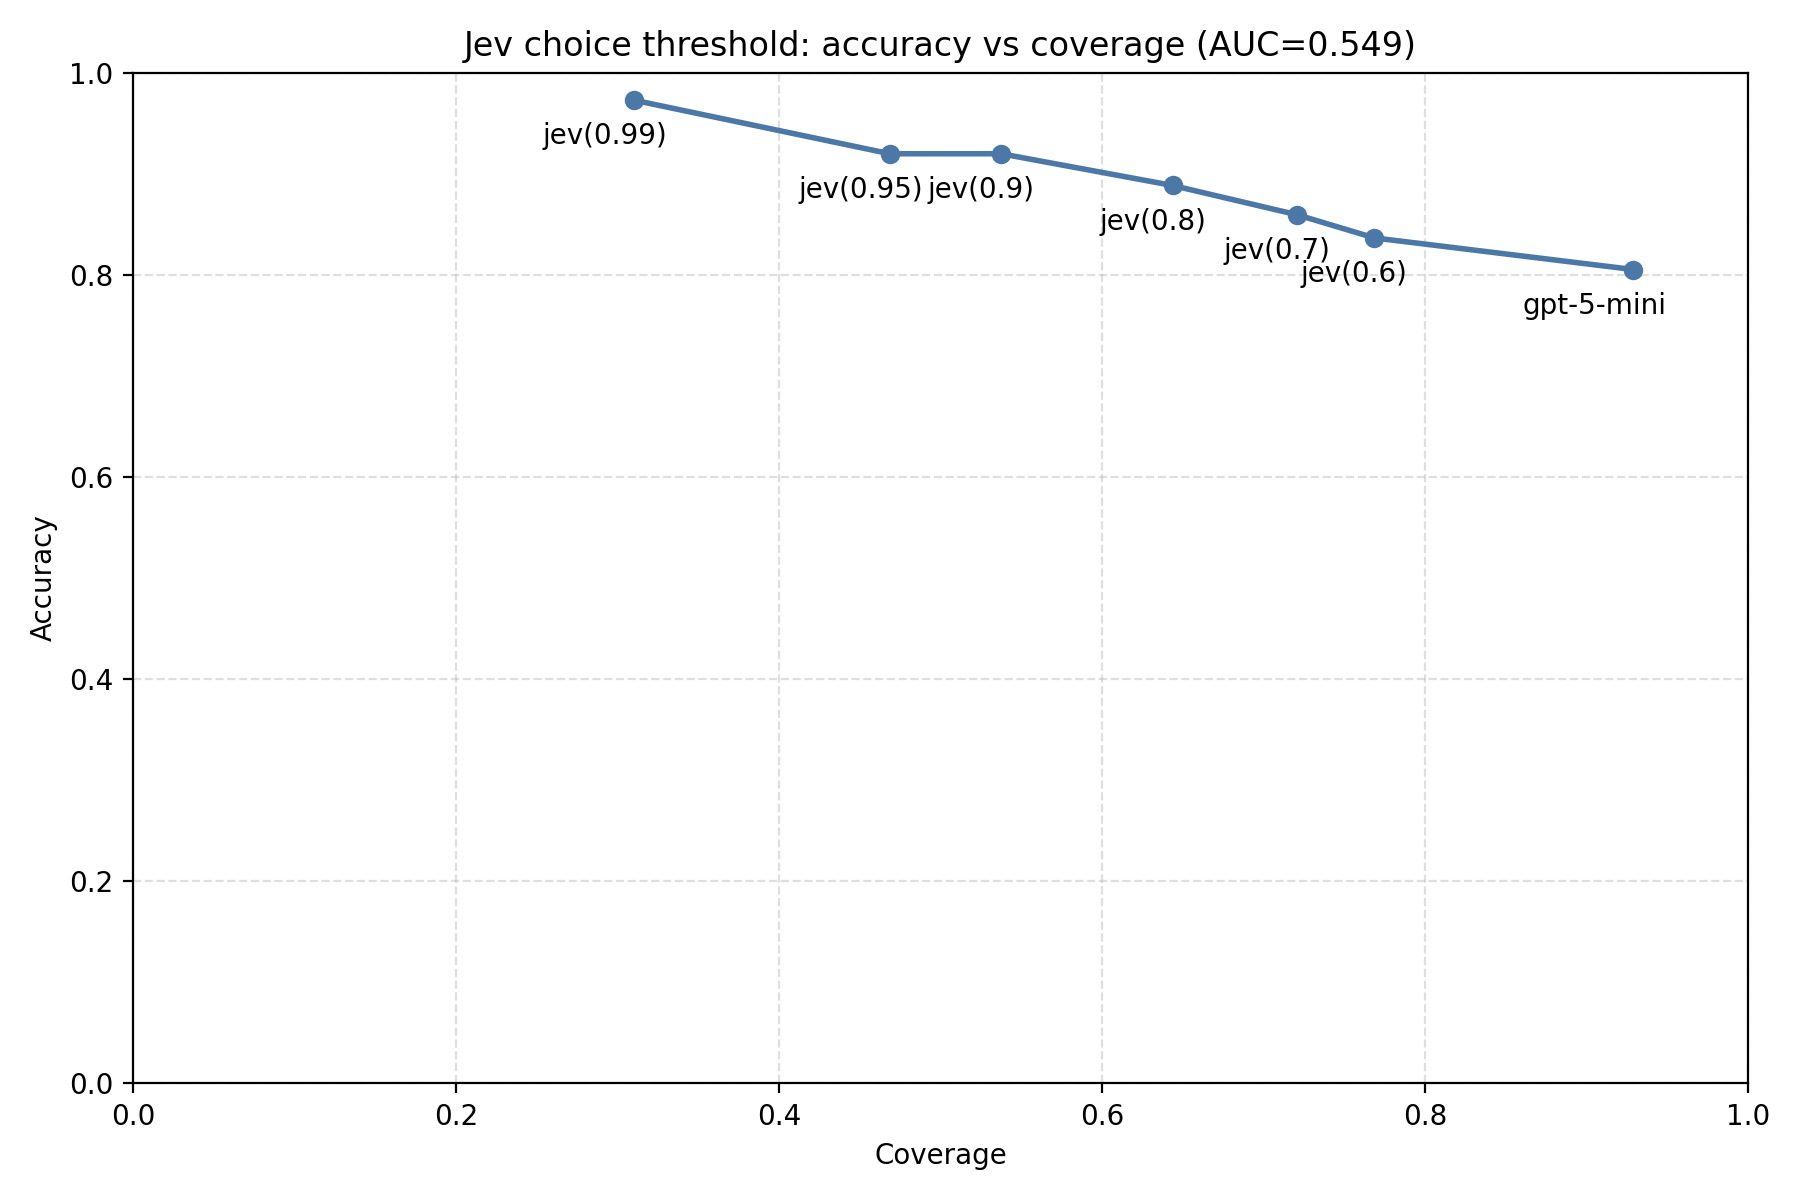
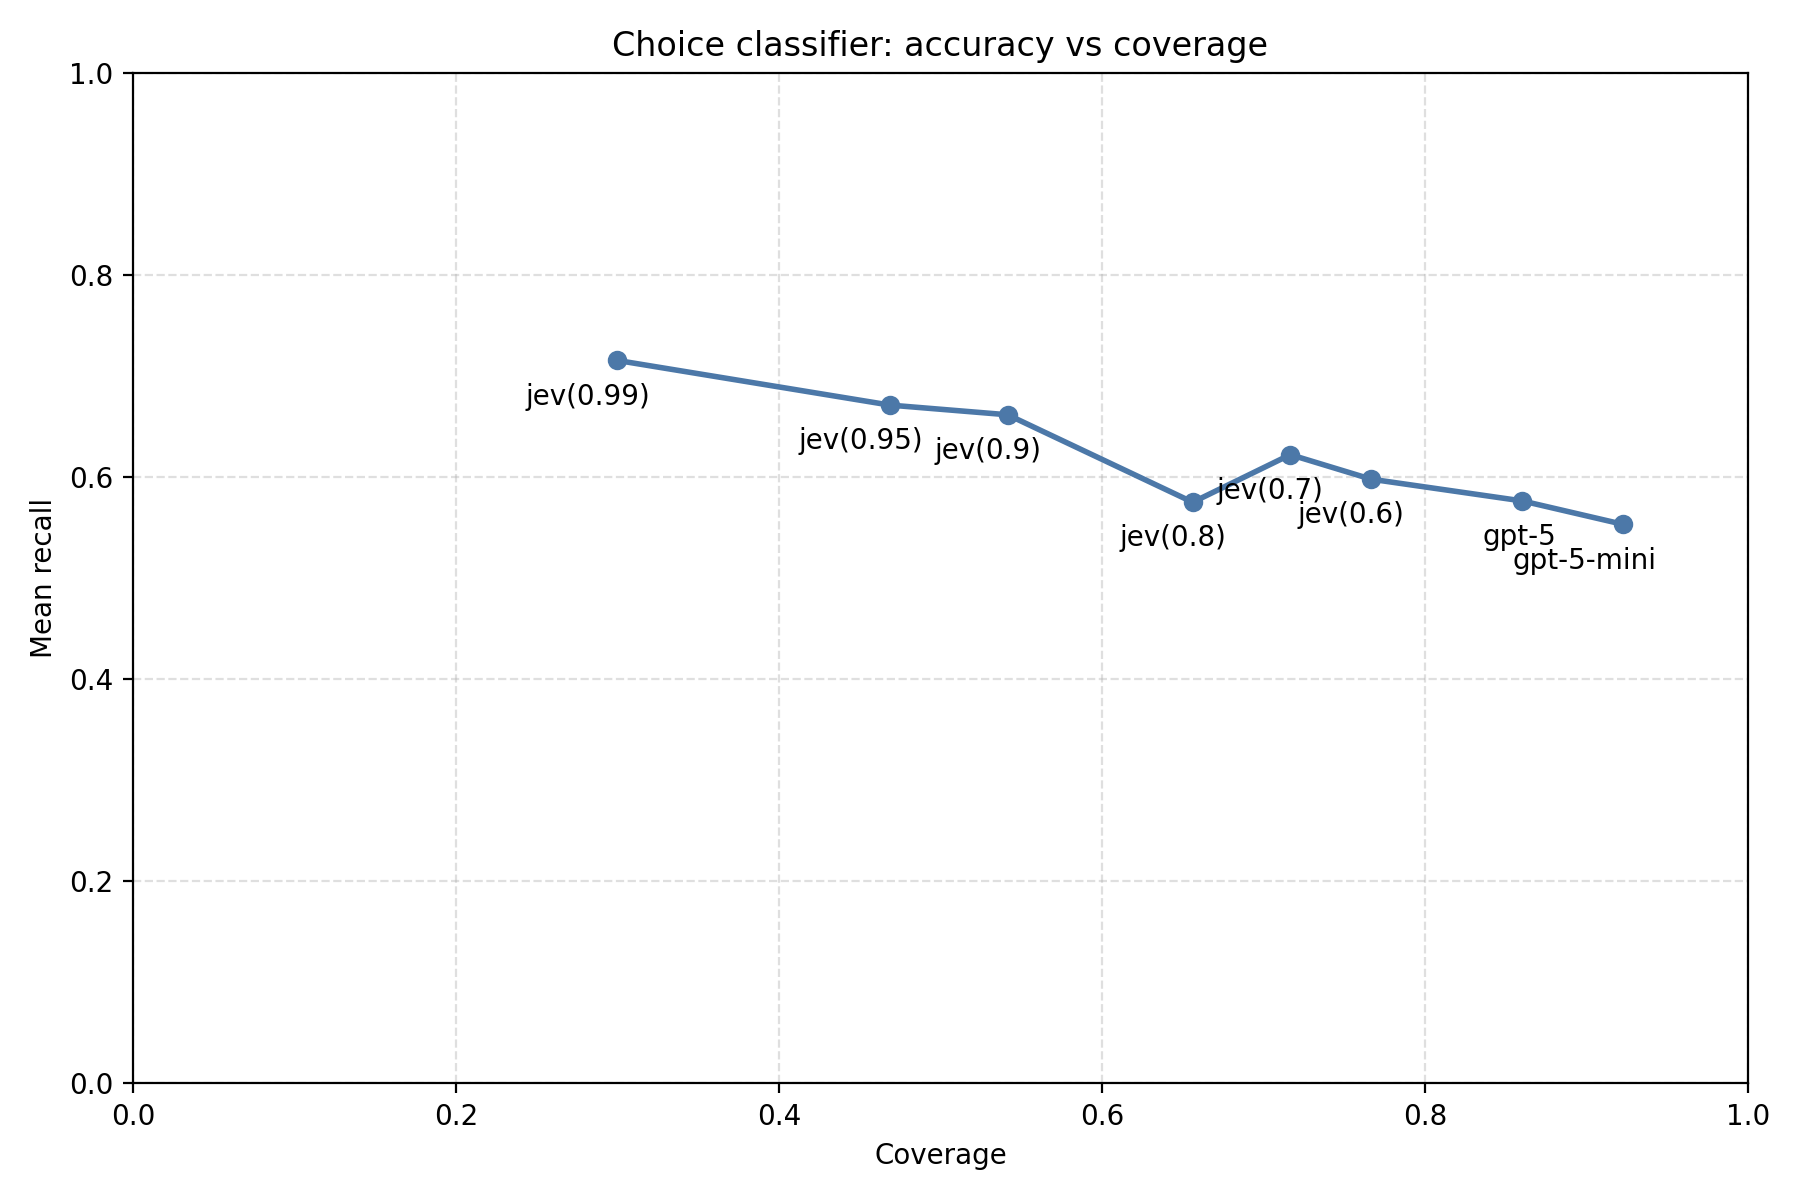
Refresh Jev confidence threshold results

diff --git a/scripts/plot_choice_single_jev_thresholds.py b/scripts/plot_choice_single_jev_thresholds.py
@@ -8,7 +8,7 @@ from pathlib import Path
 
 def main() -> None:
     parser = argparse.ArgumentParser(
-        description="Plot recall against coverage for Jev choice thresholds."
+        description="Plot accuracy against coverage for Jev choice thresholds."
     )
     parser.add_argument("--input", type=Path, required=True)
     parser.add_argument("--output", type=Path, required=True)
@@ -61,7 +61,7 @@ def main() -> None:
             ha="right",
             va="top",
         )
-    ax.set_title(f"Choice classifier: recall vs coverage (AUC={auc:.3f})")
+    ax.set_title("Choice classifier: accuracy vs coverage")
     ax.set_xlabel("Coverage")
     ax.set_ylabel("Mean recall")
     ax.set_xlim(0, 1)

diff --git a/research/query_understanding/query_understanding_jev_thresholds.md b/research/query_understanding/query_understanding_jev_thresholds.md
@@ -10,14 +10,14 @@ The table below is from [`research/results/query_understanding_jev_thresholds.cs
 
 | Variant | Confidence threshold | Mean recall | Coverage |
 | --- | ---: | ---: | ---: |
-| `ecom_choice_single` (GPT-5-mini) | baseline | 0.5561 | 0.9292 |
-| `ecom_choice_single_gpt5` (GPT-5) | gpt-5 | 0.5895 | 0.8729 |
-| `ecom_choice_single_jev_0_6` | 0.6 | 0.6033 | 0.7563 |
-| `ecom_choice_single_jev_0_7` | 0.7 | 0.6174 | 0.7188 |
-| `ecom_choice_single_jev_0_8` | 0.8 | 0.6484 | 0.6458 |
-| `ecom_choice_single_jev_0_9` | 0.9 | 0.6692 | 0.5417 |
-| `ecom_choice_single_jev_0_95` | 0.95 | 0.6667 | 0.4750 |
-| `ecom_choice_single_jev_0_99` | 0.99 | 0.7152 | 0.3146 |
+| `ecom_choice_single` (GPT-5-mini) | baseline | 0.5530 | 0.9229 |
+| `ecom_choice_single_gpt5` (GPT-5) | gpt-5 | 0.5763 | 0.8604 |
+| `ecom_choice_single_jev_0_6` | 0.6 | 0.5978 | 0.7667 |
+| `ecom_choice_single_jev_0_7` | 0.7 | 0.6221 | 0.7167 |
+| `ecom_choice_single_jev_0_8` | 0.8 | 0.5750 | 0.6563 |
+| `ecom_choice_single_jev_0_9` | 0.9 | 0.6615 | 0.5417 |
+| `ecom_choice_single_jev_0_95` | 0.95 | 0.6711 | 0.4688 |
+| `ecom_choice_single_jev_0_99` | 0.99 | 0.7153 | 0.3000 |
 
 ## Run
 
